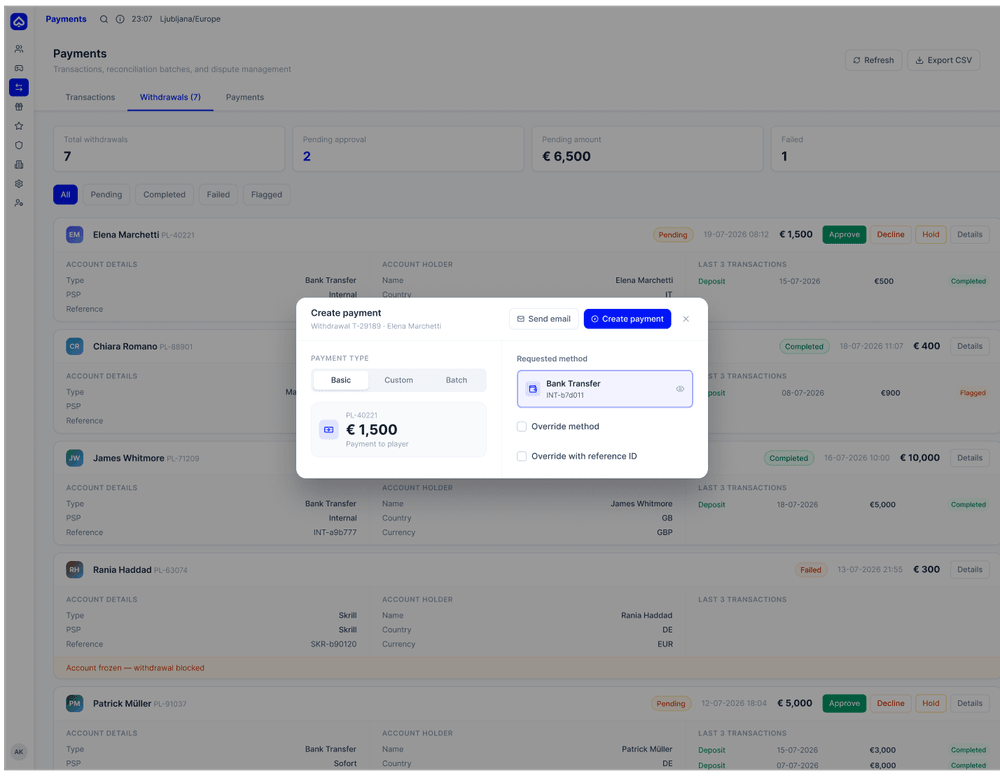
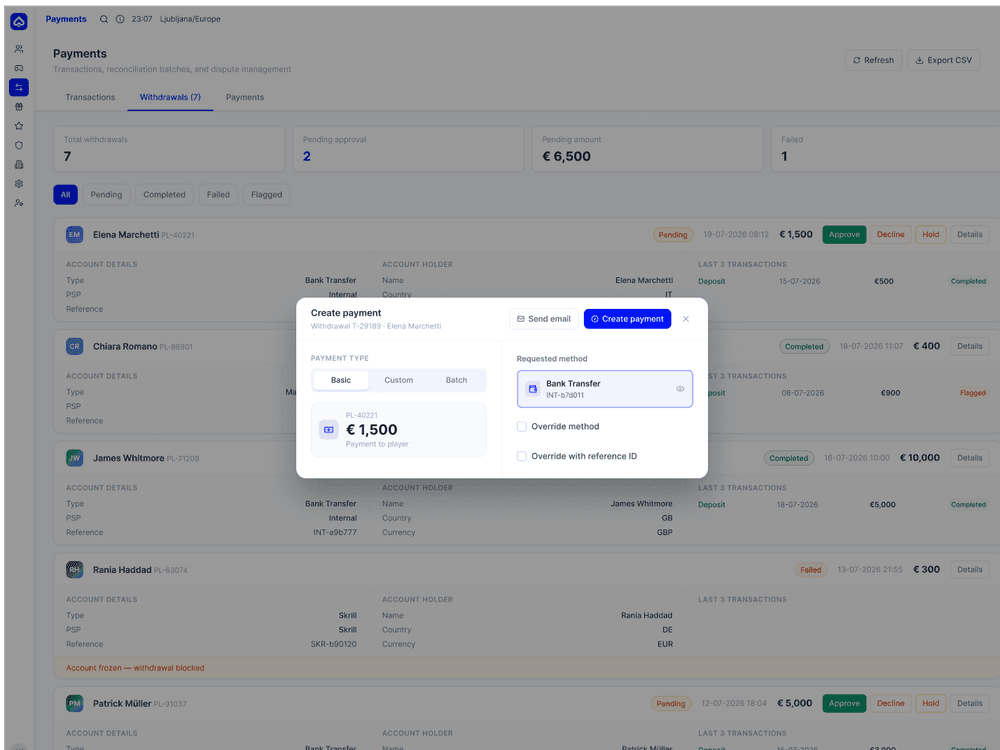
Add click-to-expand lightbox to Payments gallery, drop Failed Payment screen
Crops all Payments screenshots to a uniform 4:3 so every gallery tile
crops consistently, and extracts the grid into a ScreenshotGallery
client component: thumbnails now open the full, uncropped screenshot
in a centered overlay, closable by clicking the backdrop, the close
button, or Escape.

Removes the Failed Payment screen and its now-unused asset.

diff --git a/components/casestudy/ScreenshotGallery.tsx b/components/casestudy/ScreenshotGallery.tsx
@@ -1,0 +1,109 @@
+"use client";
+
+import { useEffect, useState } from "react";
+import Image from "next/image";
+import Reveal from "@/components/primitives/Reveal";
+
+type GalleryItem = {
+  label: string;
+  caption: string;
+  image: string | null;
+};
+
+export default function ScreenshotGallery({
+  gallery,
+}: {
+  gallery: GalleryItem[];
+}) {
+  const [activeIndex, setActiveIndex] = useState<number | null>(null);
+  const active = activeIndex !== null ? gallery[activeIndex] : null;
+
+  useEffect(() => {
+    if (!active) return;
+    const onKey = (e: KeyboardEvent) => {
+      if (e.key === "Escape") setActiveIndex(null);
+    };
+    window.addEventListener("keydown", onKey);
+    return () => window.removeEventListener("keydown", onKey);
+  }, [active]);
+
+  return (
+    <>
+      <div className="grid gap-8 md:grid-cols-3">
+        {gallery.map((item, index) => (
+          <Reveal key={item.label} delay={index * 60} className="flex flex-col gap-3">
+            <button
+              type="button"
+              onClick={() => item.image && setActiveIndex(index)}
+              disabled={!item.image}
+              aria-label={item.image ? `Expand ${item.label}` : undefined}
+              className="relative aspect-[4/3] w-full overflow-hidden rounded-lg border border-white/10 bg-surface disabled:cursor-default"
+            >
+              {item.image ? (
+                <Image
+                  src={item.image}
+                  alt={`${item.label} — ${item.caption}`}
+                  fill
+                  sizes="(max-width: 768px) 100vw, 33vw"
+                  className="object-cover object-top transition-transform duration-300 hover:scale-105"
+                />
+              ) : (
+                <div className="flex h-full w-full items-center justify-center border border-dashed border-white/10">
+                  <p className="font-sans text-sm text-text-muted">
+                    ↑ Screenshot coming soon
+                  </p>
+                </div>
+              )}
+            </button>
+            <p className="font-sans text-sm font-bold text-text-primary">
+              {item.label}
+            </p>
+            <p className="font-sans text-sm text-text-muted">
+              {item.caption}
+            </p>
+          </Reveal>
+        ))}
+      </div>
+
+      {active?.image && (
+        <div
+          className="fixed inset-0 z-50 flex items-center justify-center bg-black/85 p-6 backdrop-blur-sm"
+          onClick={() => setActiveIndex(null)}
+        >
+          <button
+            type="button"
+            onClick={() => setActiveIndex(null)}
+            aria-label="Close"
+            className="absolute right-6 top-6 flex size-10 items-center justify-center rounded-full bg-white/10 text-text-primary transition-colors hover:bg-white/20"
+          >
+            <svg width="14" height="14" viewBox="0 0 14 14" fill="none">
+              <path
+                d="M1 1L13 13M13 1L1 13"
+                stroke="currentColor"
+                strokeWidth="1.4"
+                strokeLinecap="round"
+              />
+            </svg>
+          </button>
+          <div
+            className="relative w-full max-w-4xl"
+            onClick={(e) => e.stopPropagation()}
+          >
+            <div className="relative aspect-[4/3] w-full overflow-hidden rounded-lg border border-white/10 bg-surface">
+              <Image
+                src={active.image}
+                alt={`${active.label} — ${active.caption}`}
+                fill
+                sizes="90vw"
+                className="object-contain"
+              />
+            </div>
+            <p className="mt-4 text-center font-sans text-sm text-text-muted">
+              {active.label} — {active.caption}
+            </p>
+          </div>
+        </div>
+      )}
+    </>
+  );
+}

diff --git a/app/work/payments/page.tsx b/app/work/payments/page.tsx
@@ -1,11 +1,11 @@
 import type { Metadata } from "next";
-import Image from "next/image";
 import Link from "next/link";
 import Eyebrow from "@/components/primitives/Eyebrow";
 import MetaLabel from "@/components/primitives/MetaLabel";
 import Reveal from "@/components/primitives/Reveal";
 import ScenarioCard from "@/components/casestudy/ScenarioCard";
 import FindingCard from "@/components/casestudy/FindingCard";
+import ScreenshotGallery from "@/components/casestudy/ScreenshotGallery";
 import {
   hero,
   methods,
@@ -212,35 +212,7 @@ export default function PaymentsCaseStudy() {
               The redesigned payment flows
             </h2>
           </div>
-          <div className="grid gap-8 md:grid-cols-3">
-            {gallery.map((item, index) => (
-              <Reveal key={item.label} delay={index * 60} className="flex flex-col gap-3">
-                <div className="relative aspect-[4/3] w-full overflow-hidden rounded-lg border border-white/10 bg-surface">
-                  {item.image ? (
-                    <Image
-                      src={item.image}
-                      alt={`${item.label} — ${item.caption}`}
-                      fill
-                      sizes="(max-width: 768px) 100vw, 33vw"
-                      className="object-cover object-top"
-                    />
-                  ) : (
-                    <div className="flex h-full w-full items-center justify-center border border-dashed border-white/10">
-                      <p className="font-sans text-sm text-text-muted">
-                        ↑ Screenshot coming soon
-                      </p>
-                    </div>
-                  )}
-                </div>
-                <p className="font-sans text-sm font-bold text-text-primary">
-                  {item.label}
-                </p>
-                <p className="font-sans text-sm text-text-muted">
-                  {item.caption}
-                </p>
-              </Reveal>
-            ))}
-          </div>
+          <ScreenshotGallery gallery={gallery} />
         </Reveal>
       </section>
 

diff --git a/lib/caseStudies/payments.ts b/lib/caseStudies/payments.ts
@@ -190,9 +190,4 @@ export const gallery: {
     caption: "Paid-out totals, monthly volume, and average payment size across the ledger.",
     image: "/images/projects/payments-08-payments-tab.png",
   },
-  {
-    label: "Failed Payment",
-    caption: "A frozen-account withdrawal halted at compliance check, with the block reason surfaced.",
-    image: "/images/projects/payments-09-payments-detail-failed.png",
-  },
 ];
